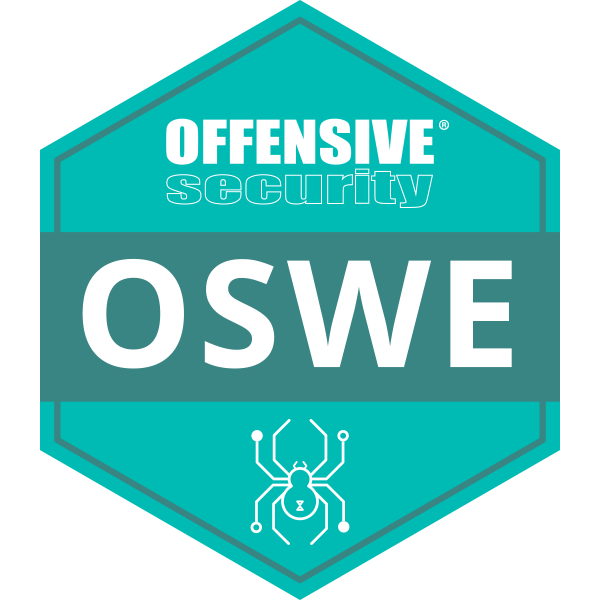
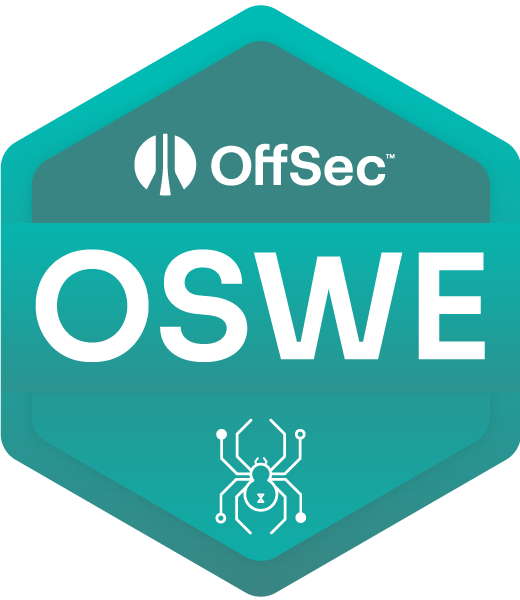
updated certs

diff --git a/index.html b/index.html
@@ -320,9 +320,33 @@
                                         <td style="border:none;color:#aaaaaa;">-rwxr-xr-x</td>
                                         <td style="border:none;color:#aaaaaa;">gengstah</td>
                                         <td style="border:none;color:#aaaaaa;">gengstah</td>
+                                        <td style="border:none;color:#aaaaaa;text-align:right;">14K</td>
+                                        <td style="border:none;color:#aaaaaa;">Apr 2023</td>
+                                        <td style="border:none;color:#aaaaaa;"><a href="https://www.credential.net/2cca849c-4db7-4132-973a-0b66defc426c" target="_blank"><img class="inline" width="50" height="50" src="img/osce3.png" /></a>&nbsp;OffSec Certified Expert 3 (OSCE3)</td>
+                                    </tr>
+                                    <tr>
+                                        <td style="border:none;color:#aaaaaa;">-rwxr-xr-x</td>
+                                        <td style="border:none;color:#aaaaaa;">gengstah</td>
+                                        <td style="border:none;color:#aaaaaa;">gengstah</td>
+                                        <td style="border:none;color:#aaaaaa;text-align:right;">14K</td>
+                                        <td style="border:none;color:#aaaaaa;">Apr 2023</td>
+                                        <td style="border:none;color:#aaaaaa;"><a href="https://www.credential.net/61bea1d8-1f70-4e5a-9ec0-98d020640e7b" target="_blank"><img class="inline" width="50" height="50" src="img/osed.png" /></a>&nbsp;OffSec Exploit Developer (OSED)</td>
+                                    </tr>
+                                    <tr>
+                                        <td style="border:none;color:#aaaaaa;">-rwxr-xr-x</td>
+                                        <td style="border:none;color:#aaaaaa;">gengstah</td>
+                                        <td style="border:none;color:#aaaaaa;">gengstah</td>
+                                        <td style="border:none;color:#aaaaaa;text-align:right;">27K</td>
+                                        <td style="border:none;color:#aaaaaa;">Apr 2023</td>
+                                        <td style="border:none;color:#aaaaaa;"><a href="https://www.credential.net/1bea971e-5a87-4d90-97af-8fccbc41c24c" target="_blank"><img class="inline" width="50" height="50" src="img/osep.png" /></a>&nbsp;OffSec Experienced Penetration Tester (OSEP)</td>
+                                    </tr>
+                                    <tr>
+                                        <td style="border:none;color:#aaaaaa;">-rwxr-xr-x</td>
+                                        <td style="border:none;color:#aaaaaa;">gengstah</td>
+                                        <td style="border:none;color:#aaaaaa;">gengstah</td>
                                         <td style="border:none;color:#aaaaaa;text-align:right;">32K</td>
                                         <td style="border:none;color:#aaaaaa;">Dec 2022</td>
-                                        <td style="border:none;color:#aaaaaa;"><a href="https://www.credly.com/badges/9d7d26c4-06a7-42df-9253-c605d3b804a7" target="_blank"><img class="inline" width="50" height="50" src="img/oswe.png" /></a>&nbsp;Offensive Security Web Expert (OSWE)</td>
+                                        <td style="border:none;color:#aaaaaa;"><a href="https://www.credential.net/91d9097d-9bda-48b9-aa16-a4babe942fe6" target="_blank"><img class="inline" width="50" height="50" src="img/oswe.png" /></a>&nbsp;OffSec Web Expert (OSWE)</td>
                                     </tr>
                                     <tr>
                                         <td style="border:none;color:#aaaaaa;">-rwxr-xr-x</td>
